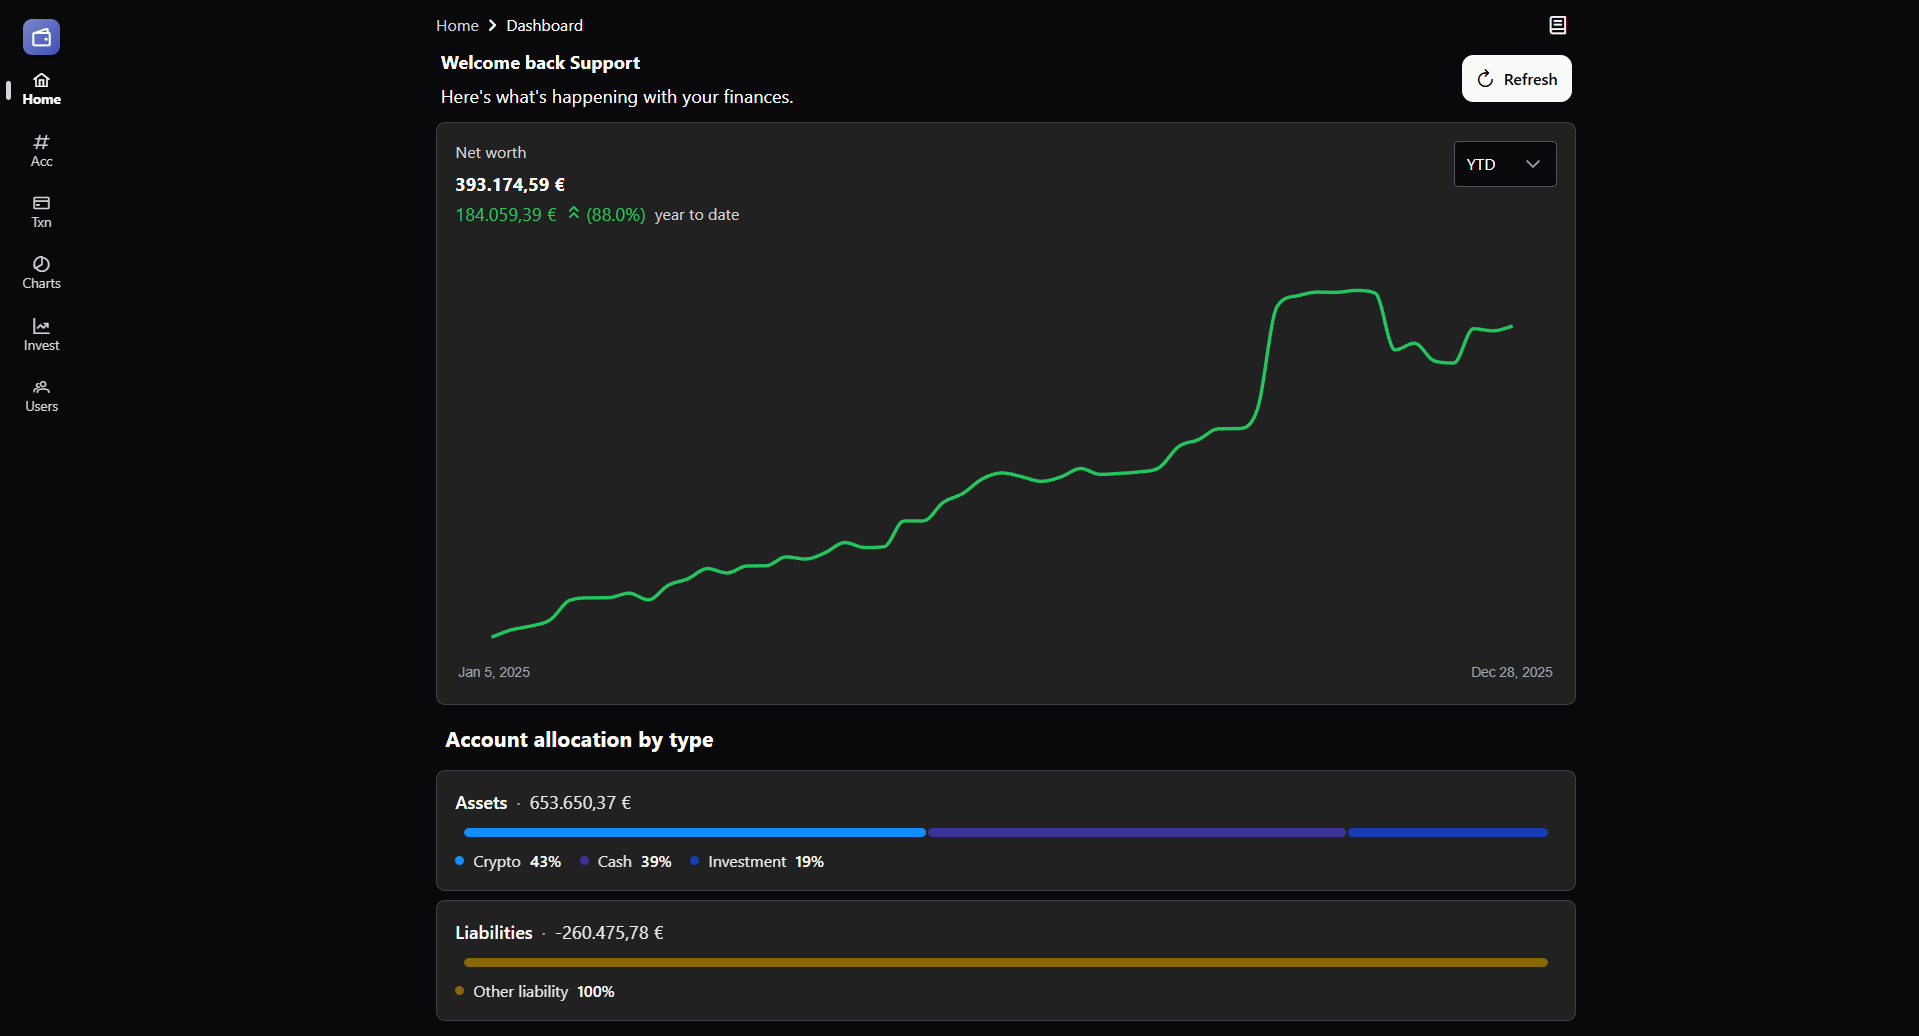
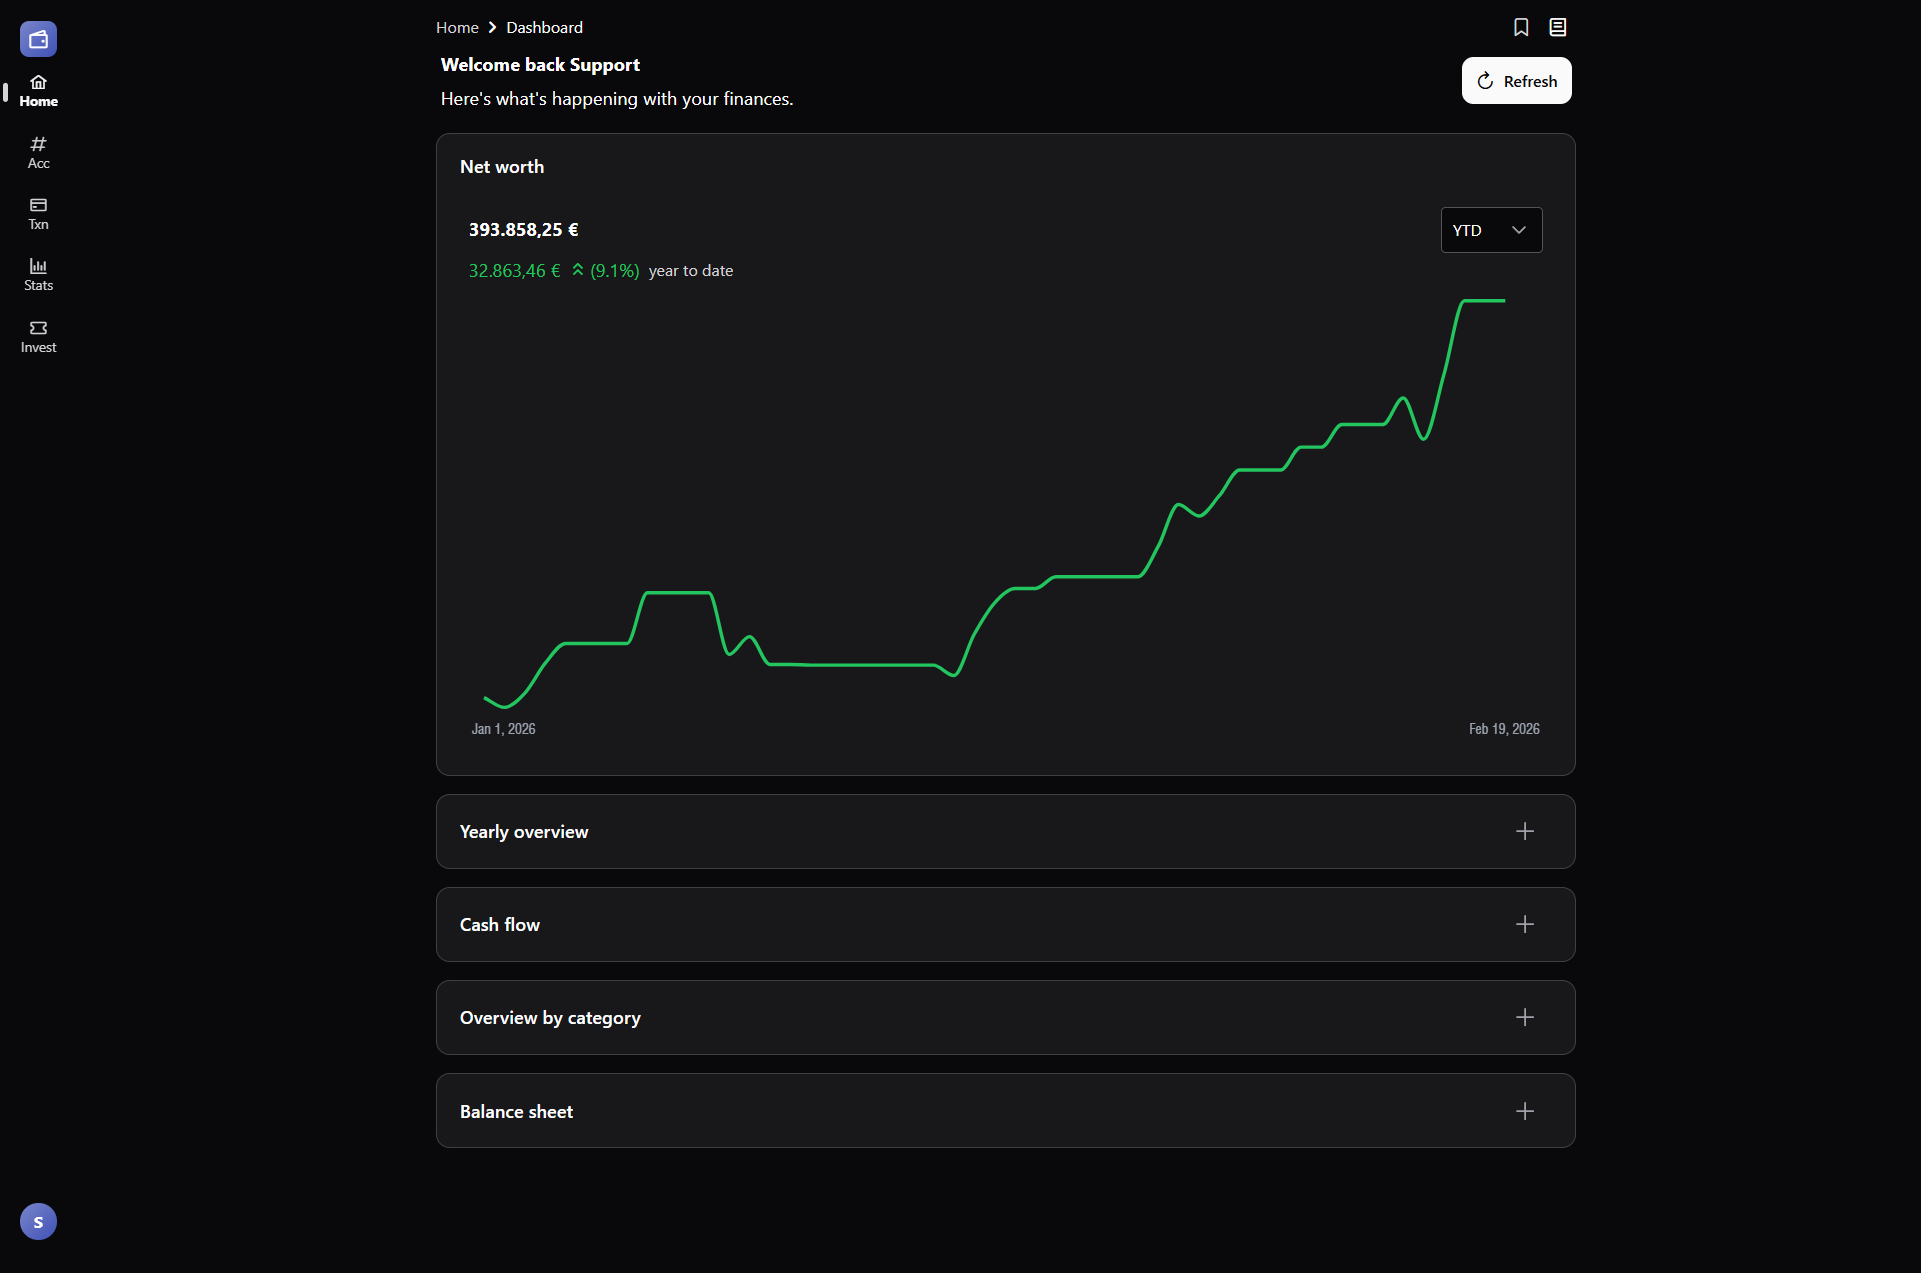
update README
- Update images with latest design overhaul
- Simplify deployment process

diff --git a/README.md b/README.md
@@ -2,86 +2,45 @@
 
 An open-source finance tracker focused on simplicity and usability.
 
-## About
-
-Wealth Warden started as a personal Excel spreadsheet for tracking finances. 
-After years of manual updates and growing complexity, it evolved into a web application that maintains the simplicity of spreadsheet-based tracking, 
-while adding the power of automation and visualization.
-
-It's written in Go and Vue, and can be deployed with Docker easily.
-
-### Dashboard page
 ![Dashboard](docs/images/dash.png)
-
-### Charts view
-![Charts](docs/images/chart.png)
-
-### Investment management
+![Analytics](docs/images/analytics.png)
+![Accounts](docs/images/accounts.png)
 ![Investments](docs/images/investments.png)
 
+## About
+
+Wealth Warden started as a personal Excel spreadsheet for tracking finances.
+After years of manual updates and growing complexity, it evolved into a web application that maintains the simplicity of spreadsheet-based tracking,
+while adding the power of automation and visualization.
+
+## Hosting
+
+The app is already working and can currently only be self-hosted with [Docker](./docs/docker.md).
+
 ## Notes
-- This project is still a work in progress, there are things I want to implement that are currently on hold
-- There are also some features that are implemented half way, those being:
-  - Currency support: For now, EUR is the default and can not be changed
+
+This project is still in development, there are things I want to implement that are currently on hold
+Since the app is data heavy, some performance issues may arise.
+
+There are also some features that are implemented half way, those being:
+  - **Currencies**: For now, EUR is the default and can not be changed
     - USD is supported for investments
-  - Timezone support: Not supported everywhere
-  - Permissions: Implemented in a basic way
+  - **Timezones**: Not supported everywhere
+  - **Permissions**: Limited support
 
-## Features:
-- Ledger based transactions tracking across multiple accounts with automatic balance calculations
-- Daily, monthly, and yearly statistics to monitor your financial health
-  - Compare performance across different time periods
-- Interactive Charts & Visualizations
-- Per-record audit trails on individual records, showing the complete history of changes with timestamps and events
-- Investment portfolio management
-  - Track stocks, ETFs, and cryptocurrencies with real-time price updates from Yahoo Finance API
-  - Monitor individual trades with P&L calculations
-  - Linked investment accounts integrated with the main ledger system
-- Automation & Scheduled Jobs
-  - Automatic asset price updates for real-time investment tracking
-  - Balance backfill job to maintain accurate historical data
-  - Execute recurring transactions based on your configured parameters via transaction templates
+## Local development
 
-## Deployment
+The instructions below are for anyone that wants to run the app locally.
 
-It's recommended to run the app with Docker. Instructions can be found [here](./docs/docker.md)
+### Requirements
+- Go > 1.25
+- Node > 20
+- PostgreSQL > 14
 
-### Local development
+### Getting started
 
-If you want to add changes to the app, you can run it locally.
-You need to setup:
-- A Postgres instance
-- Have Go installed
-- Have npm installed
+Edit configuration files
+- `.pkg/config/override/dev.yaml`
+- `./client/.env`
 
-#### Running the server
-You can run the server with the following command:
-```shell
-go run ./cmd/http-server
-```
-
-Alternatively, you can use the provided Makefile.
-```shell
-make run | migrate {type} | seed
-```
-
-### Environment
-The app uses a `dev.yaml` file, located in `/pkg/config/override/`
-- An example for docker is provided in `/pkg/config/dev.docker.yaml` which is an unsecure dummy config for docker builds.
-
-#### Running the client
-
-Change into the correct directory:
-```shell
-cd ./client
-```
-
-Install packages with npm:
-```shell
-npm install
-```
-
-Run the client
-```shell
-npm run dev
-```
+By default, the app will be available at http://localhost:5000
